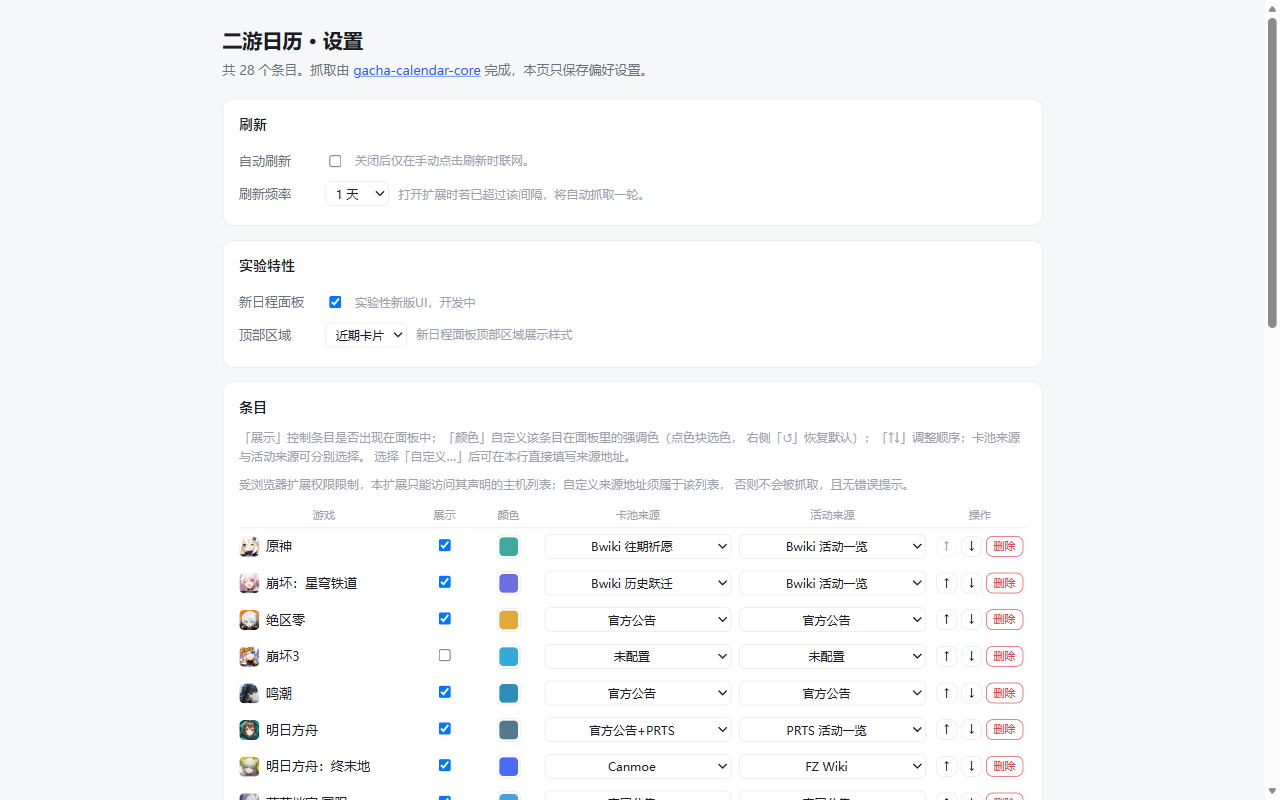
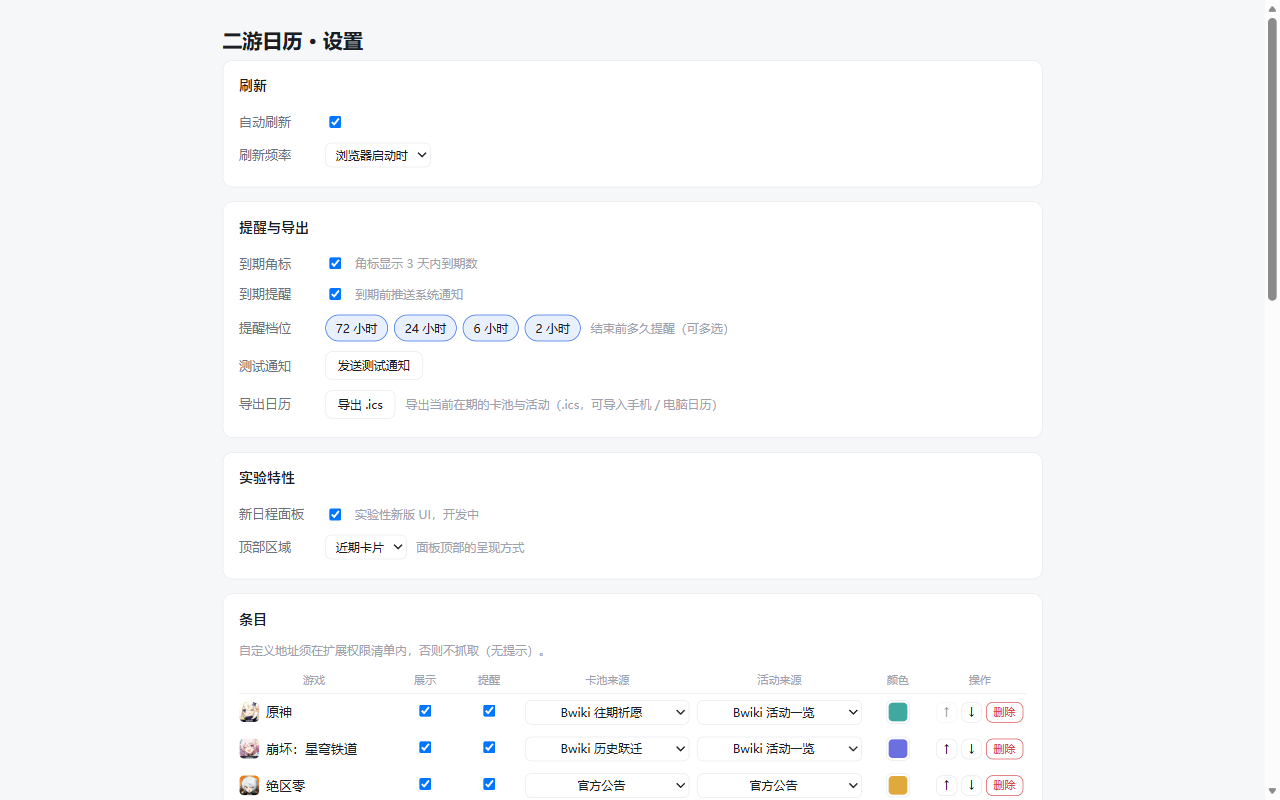
chore(store): 0.2.34 已提交商店送审（In review，2026-10-31）
**商城侧（Partner Center 实际完成）**
- 0.2.31 **已过审上线**（线上当前版本）
- 0.2.34 提交：
  - 上传 `gacha-calendar-extension-0.2.34.zip`（26 文件 / 237 KB），平台校验通过
  - 权限面相对 0.2.31 新增 `alarms` + `notifications`
  - Privacy：新填 `alarms`(251 字) / `notifications`(423 字)，其余（单一用途 34 / storage 163 / DNR 291 / 主机 491）沿用
  - 商店列表：设置页截图重拍（7 列含「提醒」、新文案）并同步到两种语言；面板/删除恢复截图保持
  - 认证说明重填 630 字（后台启动抓取、提醒档位与测试通知、导出 .ics、刷新时机默认启动时）
  - 提交后状态：**Version 0.2.34 In review**；线上仍 0.2.31

**踩坑记录（已写进 AGENTS）**
导航后立刻读页面会看到 `login.microsoftonline.com` 登录页 —— 那是**已登录状态下的重定向中途**，
不代表掉登录。以后必须轮询到 `partner.microsoft.com` 且正文出现 Store listings / Extension overview 才判断。
另外「Save draft 按钮变灰 = 已无未保存改动」比等 toast 可靠。

⚠ 版本号已在发版时改为 0.2.34；本轮只更新状态文档，未再改包。

diff --git a/store/PUBLISHING.md b/store/PUBLISHING.md
@@ -283,7 +283,7 @@ Partner Center → **Analytics** 页有三个标签：`Weekly users` / `Installs
 | **0.2.31（core 0.12.10）** | ✅ **已过审上线（2026-10-31）**，被 0.2.34 取代 |
 | **0.2.32（日历导出 + 角标）** | 已发 GitHub；新增 `alarms` 权限 |
 | **0.2.33（到期通知）** | 已发 GitHub；`notifications` 权限（默认开，可关）⇒ 与 0.2.32 合并后一次提交，需补 alarms + notifications 两条权限理由 |
-| **0.2.34（后台抓取 + DSH 口径提醒 + 代码分割）** | ✅ **已发 GitHub（2026-10-31）**；相对 0.2.31 新增 `alarms` + `notifications` 权限 ⇒ 需补两条权限理由后提交商店；zip 237KB |
+| **0.2.34（后台抓取 + DSH 口径提醒 + 代码分割）** | ✅ **已发 GitHub + 已提交商店送审（In review，2026-10-31）**：包 0.2.34（zip 237KB）、文案/截图更新、权限理由补 `alarms`(251 字)/`notifications`(423 字)、认证说明 630 字；线上仍 0.2.31 |
 | 商店文案补更新 | ✅ 上一次已过审生效（zh 643 / en 1728 字符）\n| **文案改版（待提交）** | 本地已改：zh **880** 字符、en **2182** 字符（新增新面板/颜色/失败提示说明） |
 
 > 0.2.6 涉及**新增 3 个主机权限**（`gametora.com`、`gh-proxy.com`、

diff --git a/AGENTS.md b/AGENTS.md
@@ -36,3 +36,14 @@
 - 抓取域名一律来自 `gacha-calendar-core`；改 core 版本后先跑 `node tools/check-domains.mjs`。
 - `manifest.json` 的 `host_permissions` 必须覆盖 core 实际抓取的全部域名（含动态 CDN 子域）。
 - `src/background.js` 的 `ALLOW_HOSTS` 不能删（删了就是任意内网请求器）。
+
+## 4. Partner Center 自动化：别把重定向当掉登录
+
+微软账号的授权页（`login.microsoftonline.com`）在**已登录**状态下也会作为重定向的一站出现：
+导航后立刻读页面会看到登录页，若据此判定"会话过期、需要用户登录"，就是误报（2026-10-31 连续踩了三次）。
+
+正确做法：
+- 导航后**轮询**（每 1.5s，最多 60s）直到 URL 回到 `partner.microsoft.com` 且正文含
+  `Extension overview` / `Store listings` 之类的页面标题；
+- 只有在**轮询超时后**才认为是真的掉登录，再请用户处理；
+- 判断"保存成功"同理：`Save draft` 按钮变灰 = 已无未保存改动，这比找 toast 更可靠。
